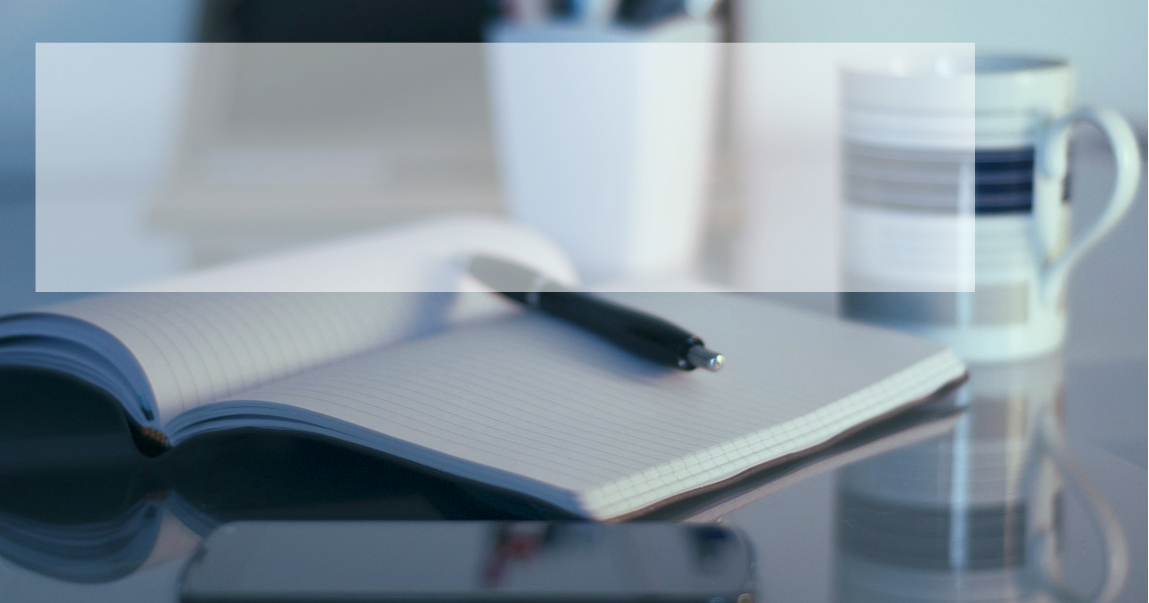
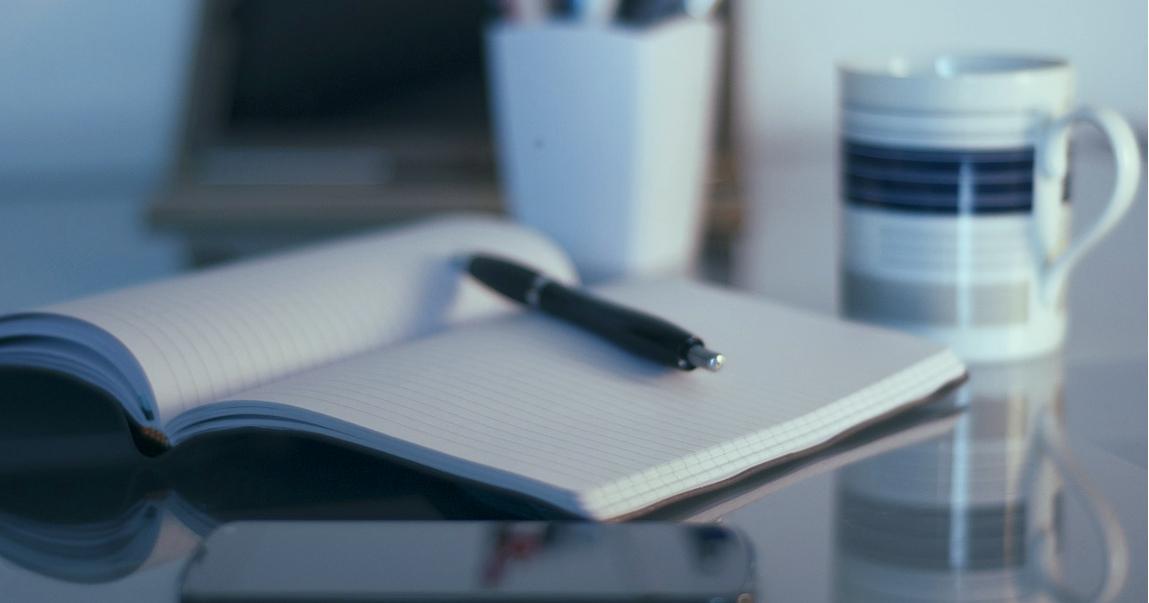
scaling issue

diff --git a/content/templates/index.html b/content/templates/index.html
@@ -4,12 +4,14 @@
 {% block content %}
     <section id="content" class="body">        
         <div class="jumbotron" style="background-image: url('images/header.jpg')">
-            <h1>Welcome to Efficient Era!</h1>
-            <p>
-                We are working to launch a new service to help Web Retailers sell their products across multiple marketplaces and geographies.
-                Selling on Amazon has never been so easy.
-            </p>
-            <p><a href="/blog" class="btn btn-primary btn-lg">Learn more</a></p>
+            <div class="jumbotron-text">
+                <h1>Welcome to Efficient Era!</h1>
+                <p>
+                    We are working to launch a new service to help Web Retailers sell their products across multiple marketplaces and geographies.
+                    Selling on Amazon has never been so easy.
+                </p>
+                <p><a href="/blog" class="btn btn-primary btn-lg">Learn more</a></p>
+            </div>
         </div>
         <div class="row">
             <div class="col-sm-12 col-lg-12 text-center">

diff --git a/themes/bootstrap3/templates/includes/addthis.html b/themes/bootstrap3/templates/includes/addthis.html
@@ -1,18 +1,6 @@
 {% if ADDTHIS_PROFILE %}
     <hr />
     <!-- AddThis Button BEGIN -->
-    <!--<div class="addthis_toolbox addthis_default_style">
-        {% if ADDTHIS_FACEBOOK_LIKE|default(true) %}
-            <a class="addthis_button_facebook_like" fb:like:layout="button_count"></a>
-        {% endif %}
-        {% if ADDTHIS_TWEET|default(true) %}
-            <a class="addthis_button_tweet"></a>
-        {% endif %}
-        {% if ADDTHIS_GOOGLE_PLUSONE|default(true) %}
-            <a class="addthis_button_google_plusone" g:plusone:size="medium"></a>
-        {% endif %}
-    </div>-->
-    <!-- Go to www.addthis.com/dashboard to customize your tools -->
     <div class="addthis_sharing_toolbox"></div>
     <!-- AddThis Button END -->
 {% endif %}

diff --git a/themes/bootstrap3/templates/article.html b/themes/bootstrap3/templates/article.html
@@ -81,10 +81,12 @@
                 </h1>
             </header>
             <div class="entry-content">
-                <div class="panel panel-default">
+                <div class="panel panel-info">
                     {% include "includes/article_info.html" %}
+                    <div class="panel-body">
+                    {{ article.content }}
+                    </div>
                 </div>
-                {{ article.content }}
             </div>
             <!-- /.entry-content -->
             {% include 'includes/related-posts.html' %}

diff --git a/themes/bootstrap3/static/css/style.css b/themes/bootstrap3/static/css/style.css
@@ -1,3 +1,8 @@
+.jumbotron-text {
+    background: rgba(255, 255, 255, .4);
+    padding: 10px 30px 15px 30px;
+}
+
 /* allows buttons to wrap text */
 .btn-wrap {
     white-space:normal !important;
